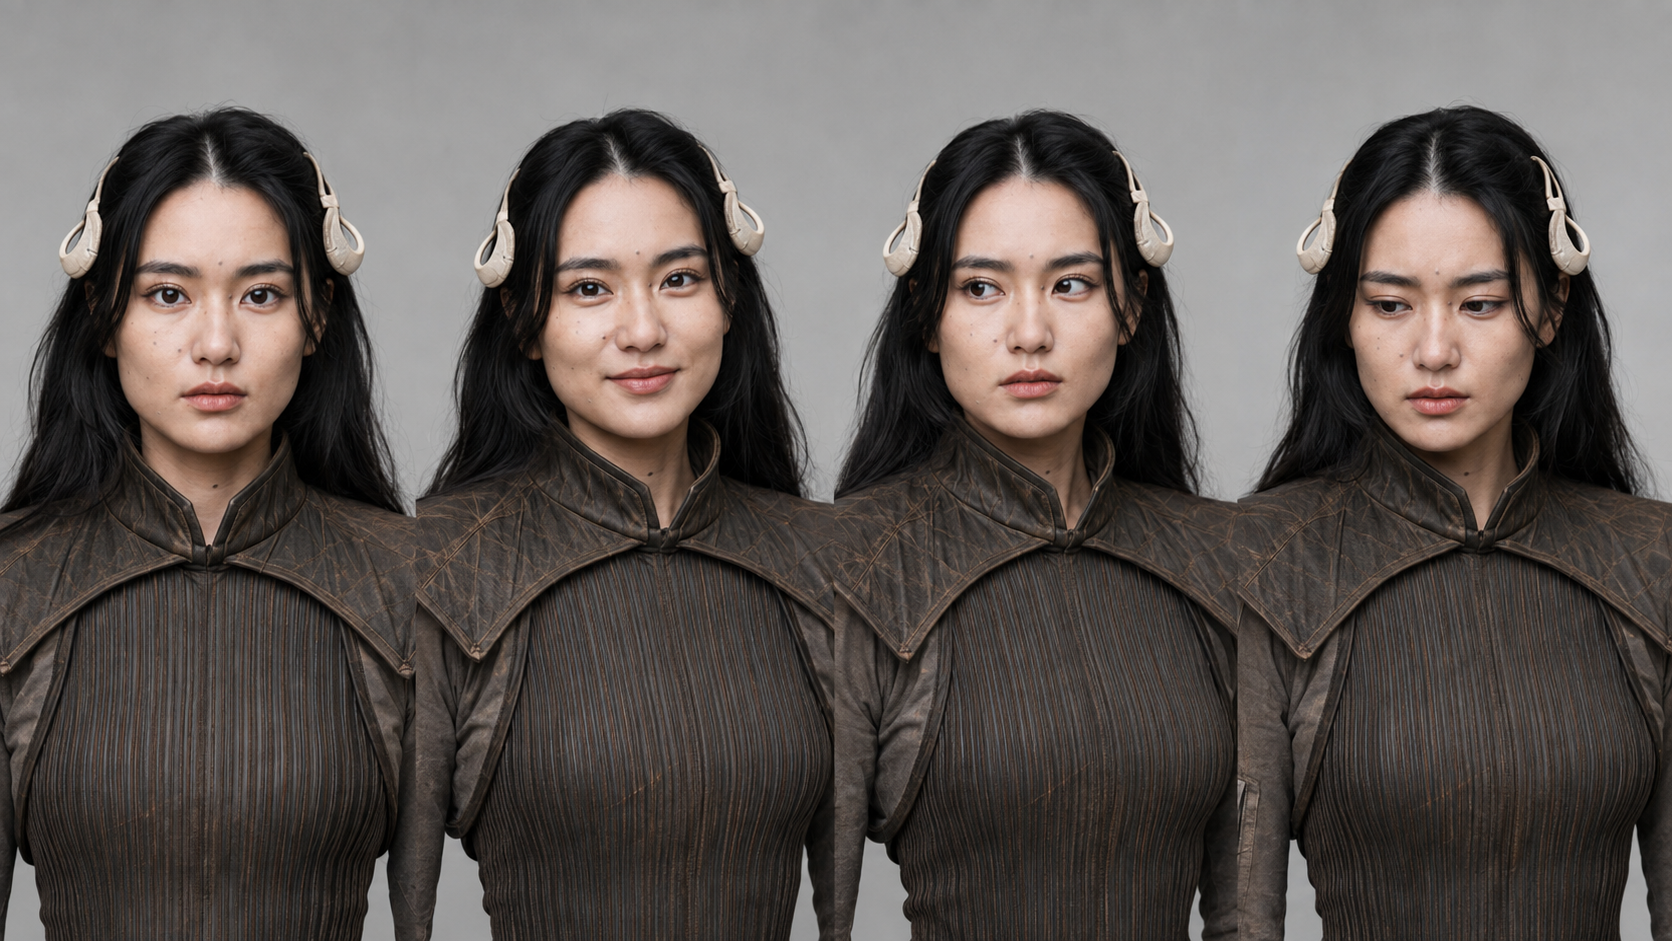
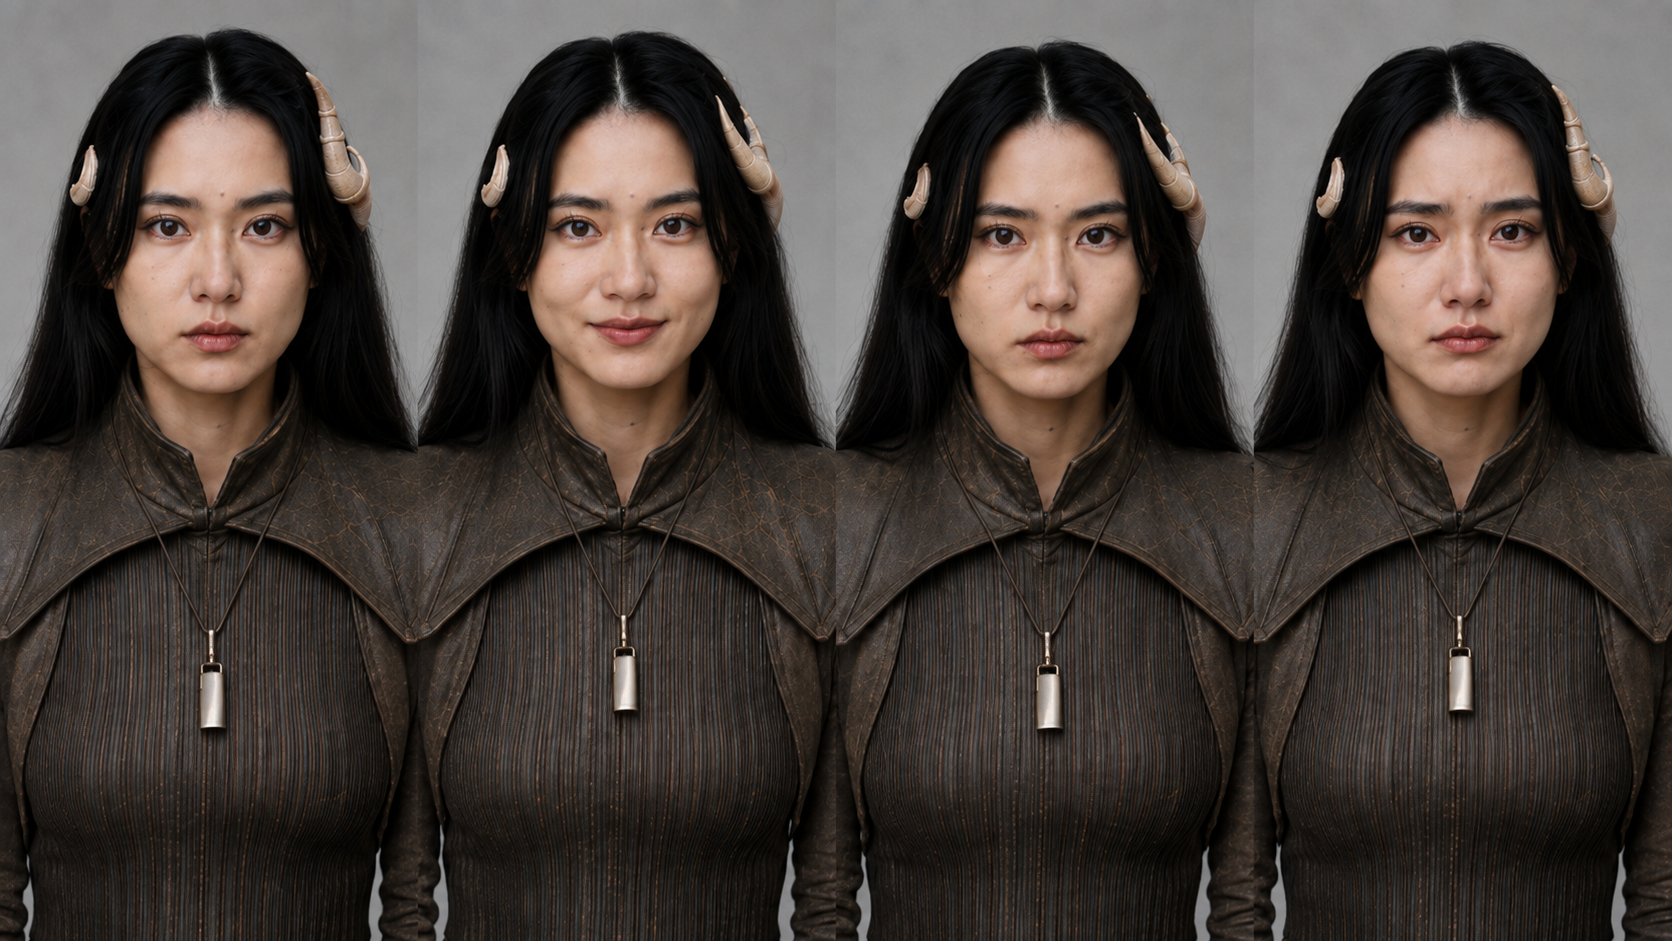
track(captain-jasu): all 19 images generated, and the front breaks a third rule
expression_strip is in and it is the best of the re-rolls. Both documented
faults are fixed, and the horns came back asymmetric and consistent across all
four panels against a prediction that they would copy the matched pair off the
front. That is the one place a slot has beaten the photograph at this crop.

Auditing the full set turned up the third rule the approved front breaks. Its
whistle is a clean bright unmarked silver bar that reads as a pendant. The prop
plate and mantle_detail both show the correct object: a dull tarnished tin
whistle, cheap and much handled. That breaches rule 20 on ornament and rule 29
on the two-bright-things limit, and in expression_strip, with no blaster in
frame, the whistle is the brightest thing in the picture.

So the front breaks three of its own rules — horns, mantle surface, whistle —
and there is a correct authority plate on disk for each. One re-roll fixes all
three. Twelve images inherit at least one of them, which is most of the pack,
and the audit says so plainly rather than softening it.

diff --git a/11-production-tracking/Jasu-Image-TODO.md b/11-production-tracking/Jasu-Image-TODO.md
@@ -9,13 +9,14 @@ status: "open"
 
 > # PICK UP HERE — 2026-08-04
 >
-> **1 image left. Every prompt is current; nothing needs editing before you
-> generate.** Fresh chat each, save under the exact `Output file:` name.
+> **ALL 19 IMAGES ARE GENERATED as of 2026-08-04.** Nothing is waiting on a
+> paste. What remains is one certain re-roll, and one decision that governs
+> almost everything else.
 >
 > **`04-captaining` and `06-portrait` came in on 2026-08-04 and are both
 > released** — see the two RELEASED notes in `../03-characters/captain-jasu/do-not-publish.txt`.
 >
-> ## ⚠ THE HORNS CONTRADICT THE APPROVED TURNAROUNDS — decide before the boards
+> ## ⚠ THE APPROVED FRONT BREAKS THREE OF ITS OWN RULES — decide before the boards
 >
 > **Deferred by the Production Designer on 2026-08-04, knowingly.** Both versions
 > are accepted on disk for now. **This is the third instance of the pattern that
@@ -45,23 +46,54 @@ status: "open"
 > paragraph beats it, which is why `portrait` and `mantle_detail` are the two that
 > came back right.
 >
-> **This lowers the price of the horn decision.** Re-rolling the front fixes the
-> horns AND the mantle surface in one pass. Two rule breaches, one generation.
+> ### AND THE WHISTLE — found 2026-08-04 by crop, and it is the third
 >
-> **The cost of deferring is not flat, and it has already gone up once.** Every
-> image generated against the current front inherits the ear cups. **`05-candid`
-> and `12-akk_together` were generated on 2026-08-04 while this sat open**, so the
-> bill is now the front + 4 views + `06-portrait` + those two — **eight images**,
-> plus a board rebuild. `08-expression_strip` would make it nine. **`16-tone_collage`
-> is the one image that never adds to this bill** — nothing is matched against it,
-> so it never needs re-rolling for the horns. Nothing forbids generating `08` now;
-> that is the price, and it should be paid knowingly rather than discovered later.
+> **Two plates get the whistle right:** `whistle_and_leash.png` (the prop plate)
+> and `mantle_detail.png` — a **dull, dark, tarnished tin whistle**, cheap and
+> much handled.
 >
-> - [ ] **DECIDE: are the horns the ear cups, or the trophies?** If the trophies
->       win, follow `APPROVAL.md` — clear `approved:` in `outfits.yaml`, re-roll
->       the front, approve by eye, re-roll the other four, then `06-portrait`. If
->       the cups win, **the rule has to be rewritten**, because as written it
->       forbids what five approved images show.
+> **The approved front carries a clean bright unmarked silver bar on a cord**, no
+> tarnish, no handling wear. It reads as a pendant. That breaks **rule 20** —
+> *"NOT ornamental and NOT jewellery — cheap, plain and much handled"* — and
+> **rule 29**, *"TWO PALE OR BRIGHT THINGS AND ONLY TWO… NOTHING else on her is
+> pale and NOTHING else is bright."*
+>
+> **In `expression_strip` there is no blaster in frame, so the whistle is the
+> brightest object in the picture** — her most important prop rendered as
+> jewellery, which is exactly what rule 20 exists to stop.
+>
+> Inherited by `scale_figure`, `hero`, `camp_day`, `expression_strip` and the four
+> other turnarounds.
+>
+> ### So it is three rules, and one generation fixes all three
+>
+> | Rule the front breaks | Correct authority already on disk |
+> |---|---|
+> | The horns — a matched pair | `headdress.png` |
+> | The mantle — a lattice, not irregular crazing | `mantle_detail.png` |
+> | The whistle — bright polished jewellery | `whistle_and_leash.png` |
+>
+> **Re-rolling the front fixes the horns, the mantle surface and the whistle in
+> one pass, with a correct reference plate for each.** That is the strongest
+> argument for doing it, and it did not exist this morning.
+>
+> **The bill, stated plainly as of 2026-08-04 with everything generated.**
+> **Twelve images carry the pendant whistle, the ear-cup horns, or both:** the
+> five turnarounds, `portrait`, `scale_figure`, `hero`, `camp_day`, `captaining`,
+> `candid`, `akk_together`. **That is effectively the whole pack**, and it should
+> not be dressed up. `16-tone_collage` is the one plate that never adds to this
+> bill — nothing is matched against it.
+>
+> **The counter-argument is that it does not get cheaper by waiting**, and that
+> one pass now fixes three rule breaches with a correct authority plate for each.
+>
+> - [ ] **DECIDE: re-roll the front, or amend the rules to match it?** If the
+>       front is re-rolled, follow `APPROVAL.md` — clear `approved:` in
+>       `outfits.yaml`, re-roll the front against `headdress`, `mantle_detail` and
+>       `whistle_and_leash` as the three scoped authorities, approve by eye, then
+>       re-roll the four matched views and work down the twelve. If the front
+>       stands, **rules 13, 16, 20 and 29 have to be rewritten**, because as
+>       written they forbid what five approved images show.
 >
 > ## Attachments — READ THIS, IT CHANGED
 >
@@ -75,13 +107,40 @@ status: "open"
 > | *(`03-camp_day`)* | `prompts/attach/field/03-camp_day/` | 5 |
 > | **everything else** | `prompts/attach/field/` | 3 |
 >
-> ## The 1
+> ## THE AUDIT — all 19 opened and checked, 2026-08-04
 >
-> **One image, and it is a re-roll:**
+> **Certain re-roll, independent of any decision — 1**
 >
-> | Paste | Why it failed |
+> | Image | Why |
 > |---|---|
-> | `08-expression_strip.txt` | **Symmetric horns** and a mantle lattice, the same two faults `06-portrait` had. The mantle fix is in the slot and it worked on the portrait. **The horns will come back matched** — that is the reference, not the slot, and it is the open decision above |
+> | `tone_collage.png` | Panel 4 is a harnessed long-muzzled quadruped, not an akk. **Attach the creature plates to slot 16 first**, then re-roll |
+>
+> **Clean, no action — 6.** `blaster` · `whistle_and_leash` · `mantle_detail` ·
+> the three `material_*`. **The first three are the authority plates** for the
+> weapon, the whistle and the mantle surface.
+>
+> **Previously flagged, now verified correct.** `scale_figure` measures **154 cm
+> against the 180 cm reference** — the recast landed and the corrected chin
+> landmark worked. `captaining` and `akk_together` both sit at the belt landmark.
+>
+> **Contingent on the decision above — 12.** The five turnarounds · `portrait` ·
+> `scale_figure` · `hero` · `camp_day` · `captaining` · `candid` ·
+> `akk_together`. Every one carries the pendant whistle, the ear-cup horns, or
+> both.
+>
+> **Not opened:** `turn-field-left`, `-right`, `-natural` and the three
+> `material_*`. The three profiles were verified at the hip by crop on 2026-08-03
+> and that record stands.
+>
+> ~~`08-expression_strip.txt`~~ — **done 2026-08-04, and the best of the
+> re-rolls.** Both documented faults fixed: **the mantle came back irregular**
+> (the paragraph is now three for three) and **the horns came back asymmetric and
+> identical across all four panels**, against a prediction that they would copy
+> the matched pair off the front. **The slot beat the photograph on the horns** —
+> the one place that has happened at this crop. Two small deviations accepted:
+> the horns are **ridged and segmented** against a rule that says *"smooth, and
+> tapering to points"*, and the whistle is the bright pendant, which is the
+> reference and is logged above.
 >
 > ~~`07-headdress.txt`~~ — **done, saved and released 2026-08-04. Hair fixed:**
 > fully down and loose, nothing gathered, nothing styled. Its mantle came back

diff --git a/REPO-STATE.md b/REPO-STATE.md
@@ -1,12 +1,12 @@
 # Repository state
 
-**Stamped 2026-08-04 13:01 UTC** — automatically, by `tools/hooks/pre-commit`, at the moment of
+**Stamped 2026-08-04 13:08 UTC** — automatically, by `tools/hooks/pre-commit`, at the moment of
 the commit that contains this file.
 
 | | |
 |---|---|
 | Branch | `main` |
-| Commit before this one | `8734dde` |
+| Commit before this one | `bf611bc` |
 | Screenplay | `the-price-of-freedom-v10.fountain` |
 | Character folders | 12 |
 | Generated prompt files | 271 |
